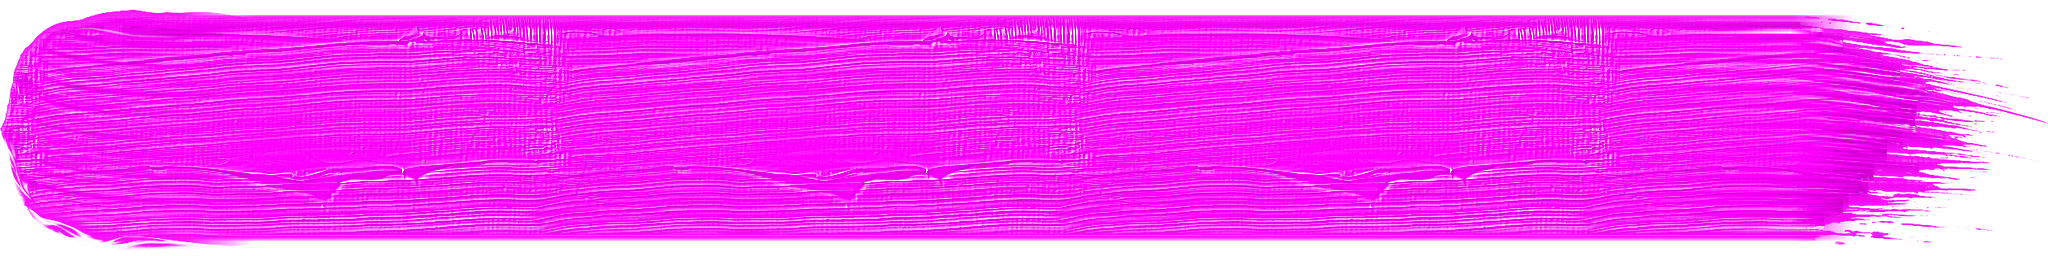
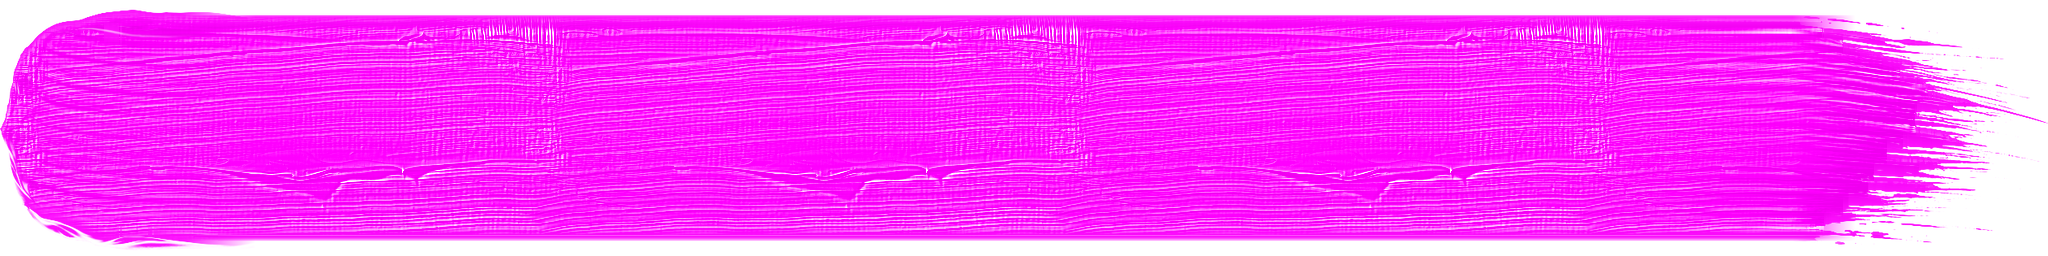
tune(brush): 납작붓 입체를 밝은 면 위주로 — 그늘 −15%→−4%, 띠 어두운 홈·갈색 두께 그늘 제거, 캔버스 골 곱하기 0.7배

diff --git a/src/engine/core/WebGL2Backend.ts b/src/engine/core/WebGL2Backend.ts
@@ -180,9 +180,14 @@ void main() {
     vec2 gsc = vec2(gx.x * rc - gx.y * rs, gx.x * rs + gx.y * rc); // 획 좌표 → 화면 좌표 기울기
     vec3 N = normalize(vec3(-gsc * 3.0, 1.0));
     vec3 L = normalize(vec3(-0.45, -0.55, 0.70)); // 왼쪽 위(화면 y 는 아래로 +)
-    float shade = clamp(1.0 + 0.6 * (dot(N, L) - L.z), 0.85, 1.14);
-    float spec = 0.025 * pow(max(dot(N, normalize(L + vec3(0.0, 0.0, 1.0))), 0.0), 12.0);
-    col = mix(col, min(col * shade + spec, vec3(1.0)), u_paintAmt);
+    // 입체는 밝은 면이 맡는다 — 그늘은 아주 옅게(−4%)·같은 색 채도만 살짝. 그늘이 −15% 면 물감이
+    // 검게 탁해졌다(2026-10-08 사용자 «검은색이 너무 많이 들어감», 아트봉봉은 밝게 준다)
+    float d = 1.1 * (dot(N, L) - L.z);
+    float spec = 0.03 * pow(max(dot(N, normalize(L + vec3(0.0, 0.0, 1.0))), 0.0), 12.0);
+    vec3 lit = d > 0.0
+      ? mix(col, vec3(1.0), min(d, 0.3) * 0.9) + spec
+      : col * (1.0 + max(d, -0.15) * 0.27);
+    col = mix(col, min(lit, vec3(1.0)), u_paintAmt);
   }
   frag = vec4(col * a, a);  // premultiplied
 }`;

diff --git a/src/engine/brushes/OilRibbon.ts b/src/engine/brushes/OilRibbon.ts
@@ -44,7 +44,7 @@ export class OilRibbon extends BrushBase {
         // 덧칠하면 물감이 쌓이는 느낌 — 새 획 둘레의 두께 음영(하이라이트+옅은 그림자)이 아래 물감 위에 선다
         // (2026-10-08 사용자 요청). 그림자는 옅게: 0 이던 때는 «검은 테» 지적 때문(그건 텍스처 가장자리가 원인이었다)
         impasto: 0.8,
-        impastoShadow: 0.5, // 쌓임 단차 — 그늘은 옅은 갈색(paper.ts), 검정 테는 «검은 얼룩»으로 읽혔다(2026-10-08)
+        impastoShadow: 0, // 갈색 그늘 테도 «검게» 보였다 — 쌓임은 밝은 둘레로만(2026-10-08) // 쌓임 단차 — 그늘은 옅은 갈색(paper.ts), 검정 테는 «검은 얼룩»으로 읽혔다(2026-10-08)
         wetMix: 0.2, // 덧칠은 위에 쌓이는 쪽으로(섞임은 살짝)
         speedSize: 0.1,
         speedAlpha: 0, // 덧칠이 비치지 않게(쌓임)

diff --git a/src/engine/core/paper.ts b/src/engine/core/paper.ts
@@ -443,7 +443,7 @@ export function drawPaperRelief(
   ctx.save();
   // ① 골 = 옅은 회색 곱하기(빈 종이에 결이 보이게) ② 이랑 = 흰 하이라이트(물감 위 결은 밝은 점으로)
   ctx.globalCompositeOperation = "multiply";
-  ctx.globalAlpha = strength;
+  ctx.globalAlpha = strength * 0.7; // 캔버스 골 곱하기가 물감 위에서 회색 망사로 보였다(2026-10-08 «검은색이 많다»)
   ctx.fillStyle = r.shadow;
   ctx.fillRect(0, 0, width, height);
   ctx.globalCompositeOperation = "source-over";

diff --git a/scripts/process-ribbon.py b/scripts/process-ribbon.py
@@ -217,7 +217,7 @@ def pack_channels(dev: np.ndarray, A: np.ndarray, lift: np.ndarray, rim: float =
     hgt = np.apply_along_axis(lambda c: np.convolve(c, k, mode="same"), 0, dev)
     emb = (hgt - np.roll(np.roll(hgt, 4, 0), 2, 1)) * EMBOSS
     shade = emb + dev * 0.35
-    r = np.clip(1 + np.minimum(shade, 0) * 0.6, 0.82, 1.0)  # 그늘은 옅게(검은 얼룩 금지)
+    r = np.clip(1 + np.minimum(shade, 0) * 0.3, 0.94, 1.0)  # 띠의 어두운 홈은 거의 없앤다 — 입체는 셰이더 빛 계산(검게 탁해짐, 2026-10-08)
     g = np.clip(np.maximum(shade, 0) * 3.4, 0, 1)
     # 테두리는 몸통 «평균» 명암으로 — 1(가장 밝음)로 올리면 밝은 색은 흰 테, 어두운 색은 (골이 밝아지는
     # 셰이더 특성상) 오히려 가장 어두운 테가 되어, 덧칠할 때마다 붓질 윤곽선이 낙서처럼 남았다(2026-10-08).
